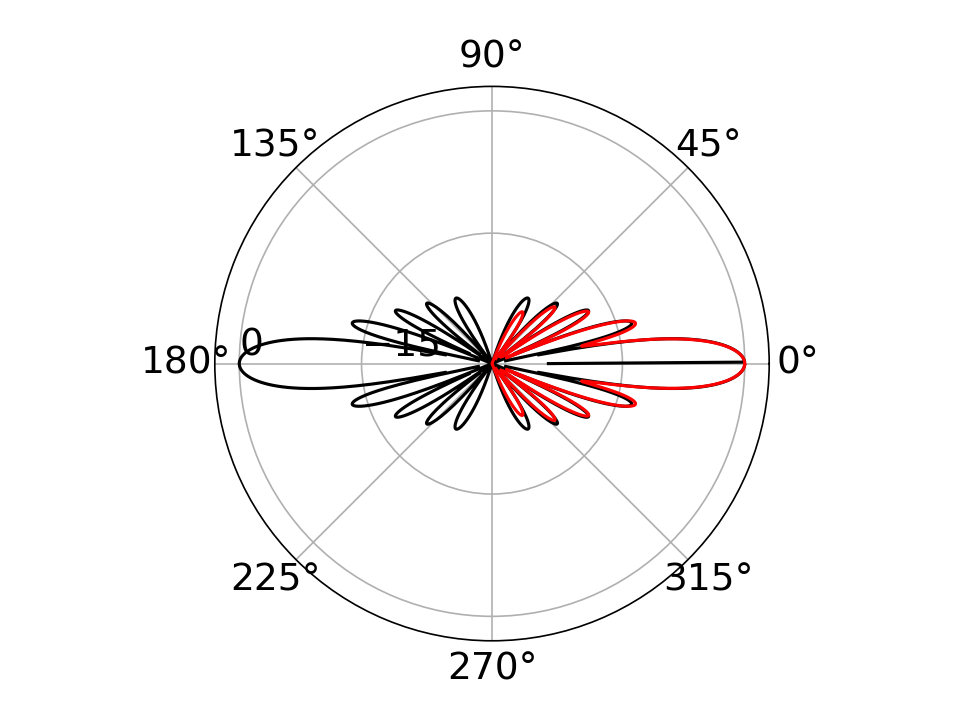
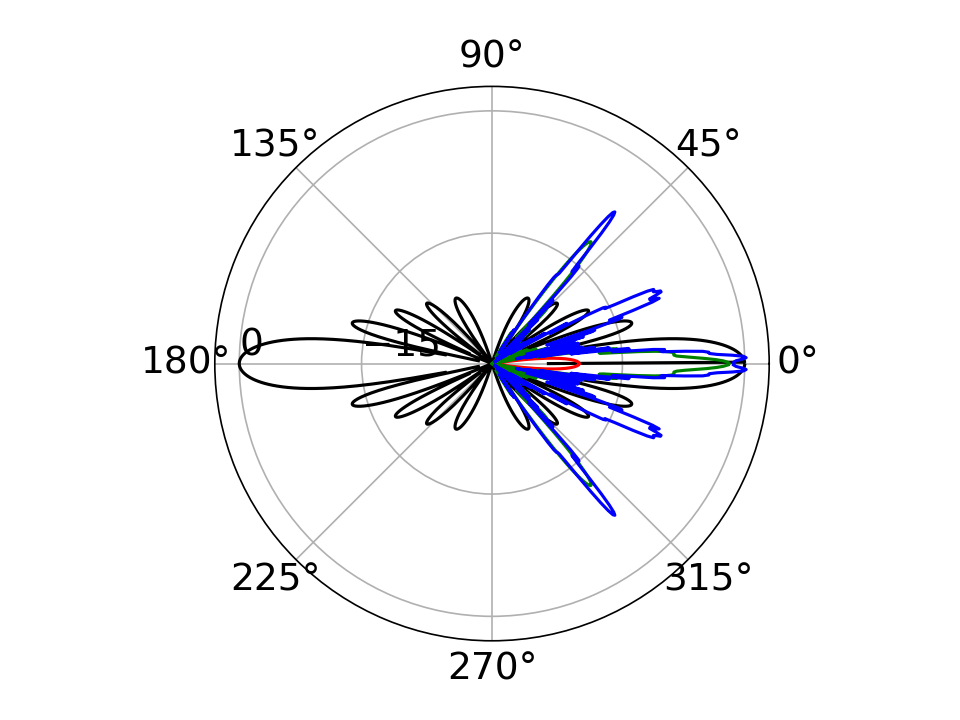
working on tracking beams with grating lobes

Changed region(s): [[0.5, 0.275, 0.7812, 0.7333]]

diff --git a/2026/MEEP/radiation_pattern.py b/2026/MEEP/radiation_pattern.py
@@ -17,8 +17,7 @@ def calculate_radiation_pattern(simulation,n2f_objs):
 		Py = np.real(E[:,2]*H[:,0]-E[:,0]*H[:,2])
 		Pz = np.real(E[:,0]*H[:,1]-E[:,1]*H[:,0])
 		Pr = np.sqrt(np.square(Px)+np.square(Py)+np.square(Pz))
-		normalization = max(Pr)
-		directivity = 10.0*np.log10(Pr/normalization)
+		directivity = 10.0*np.log10(Pr/constants.normalization)
 		results.append((angles,directivity))
 	return results
 def calculate_theoretical_radiation_pattern(phi_0,frequency):
@@ -31,6 +30,14 @@ def calculate_theoretical_radiation_pattern(phi_0,frequency):
 			results.append(pr_th_num*pr_th_num/pr_th_den/pr_th_den/constants.n_antenna/constants.n_antenna)
 		else:
 			results.append(1.0/constants.n_antenna/constants.n_antenna)
-	normalization = max(results)
-	results = 10.0*np.log10(results/normalization)
+	results = 10.0*np.log10(results)-10.0*np.log10(constants.theory_normalization)
 	return (angles,results)
+def locate_beams(angles,radiation_pattern):
+	m = np.max(radiation_pattern)
+	results = []
+	for i in range(constants.npts):
+		if((m-radiation_pattern[i])<=constants.beam_threshold):
+			results.append(angles[i])
+		else:
+			continue
+	return results

diff --git a/2026/MEEP/horn_series.py b/2026/MEEP/horn_series.py
@@ -38,4 +38,7 @@ results = radiation_pattern.calculate_radiation_pattern(sim,region_objs)
 theory_results = radiation_pattern.calculate_theoretical_radiation_pattern(0.0,constants.frequency)
 
 #Graph radiation patterns
-graph_patterns.plot_radiation_patterns(results,theory_results,"rad_pattern.png")
+#graph_patterns.plot_radiation_patterns(results,theory_results,"rad_pattern.png")
+
+#Beamwidth analysis
+print(radiation_pattern.locate_beams(results[0][0],results[0][1]))

diff --git a/2026/MEEP/constants.py b/2026/MEEP/constants.py
@@ -17,3 +17,6 @@ n2f_x_size = 22
 n2f_y_size = 134
 npts = 1080
 r = 1000
+normalization = 0.003
+theory_normalization = 1.0
+beam_threshold = 15.0
